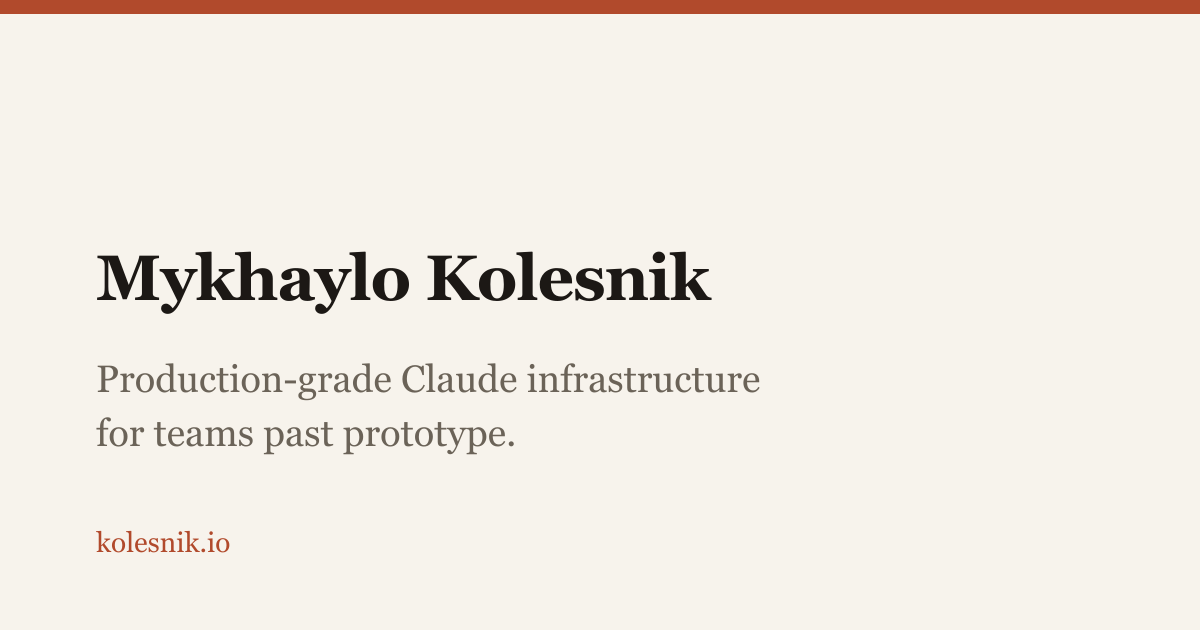
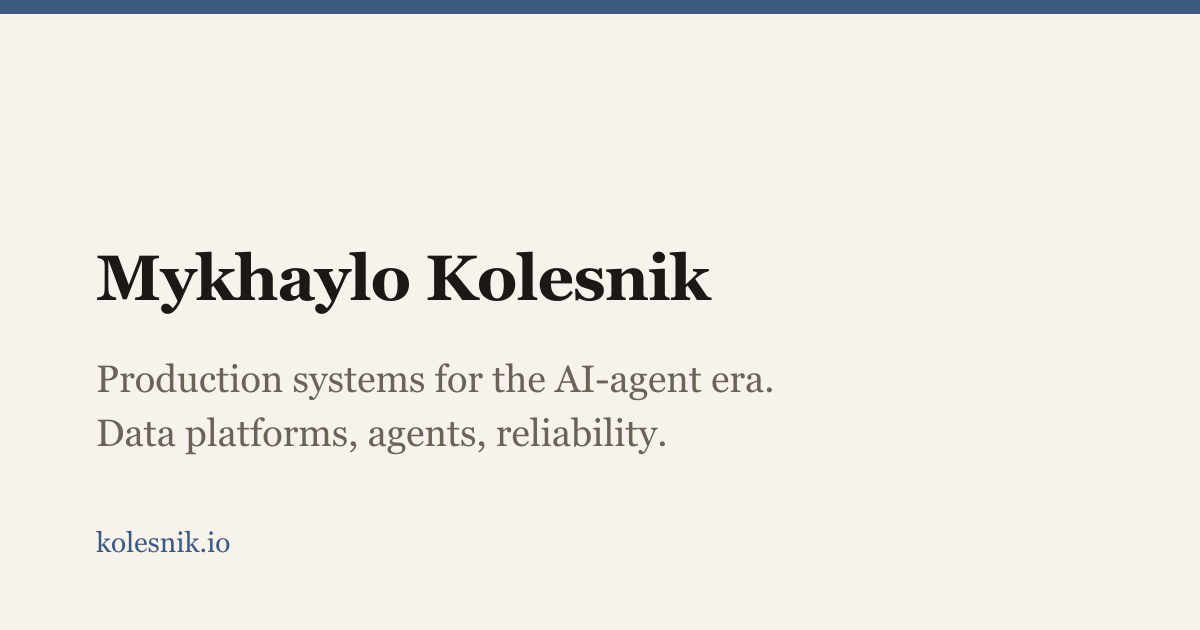
feat(design): swap accent to slate blue, trim font payload
Replace the terracotta accent with slate blue (#3d5a80 / #2f4664)
across tokens, favicon, the static OG image, and the per-post OG
endpoint; og.png also picks up the new positioning tagline. Add a
6px accent top bar as the site signature and drop the unused Source
Serif 4 italic variant (4 to 3 woff2 files).

diff --git a/src/pages/og/[...slug].png.ts b/src/pages/og/[...slug].png.ts
@@ -34,7 +34,7 @@ export async function GET({ props }: APIContext<Props>) {
           backgroundColor: '#f7f3ec',
         },
         children: [
-          { type: 'div', props: { style: { height: 14, backgroundColor: '#b14a2c' } } },
+          { type: 'div', props: { style: { height: 14, backgroundColor: '#3d5a80' } } },
           {
             type: 'div',
             props: {
@@ -52,7 +52,7 @@ export async function GET({ props }: APIContext<Props>) {
                     style: {
                       fontFamily: 'IBM Plex Sans',
                       fontSize: 26,
-                      color: '#b14a2c',
+                      color: '#3d5a80',
                       marginBottom: 28,
                     },
                     children: fmt.format(post.data.pubDate),
@@ -104,7 +104,7 @@ export async function GET({ props }: APIContext<Props>) {
                   type: 'div',
                   props: { style: { color: '#1c1815' }, children: 'Mykhaylo Kolesnik' },
                 },
-                { type: 'div', props: { style: { color: '#b14a2c' }, children: 'kolesnik.io' } },
+                { type: 'div', props: { style: { color: '#3d5a80' }, children: 'kolesnik.io' } },
               ],
             },
           },

diff --git a/src/styles/global.css b/src/styles/global.css
@@ -6,8 +6,8 @@
   --color-ink: #1c1815;
   --color-ink-muted: #6b6358;
   --color-ink-faint: #a39a8e;
-  --color-accent: #b14a2c;
-  --color-accent-deep: #8e3a23;
+  --color-accent: #3d5a80;
+  --color-accent-deep: #2f4664;
   --color-rule: #e6dfd3;
 
   --font-display: var(--font-display), Georgia, serif;
